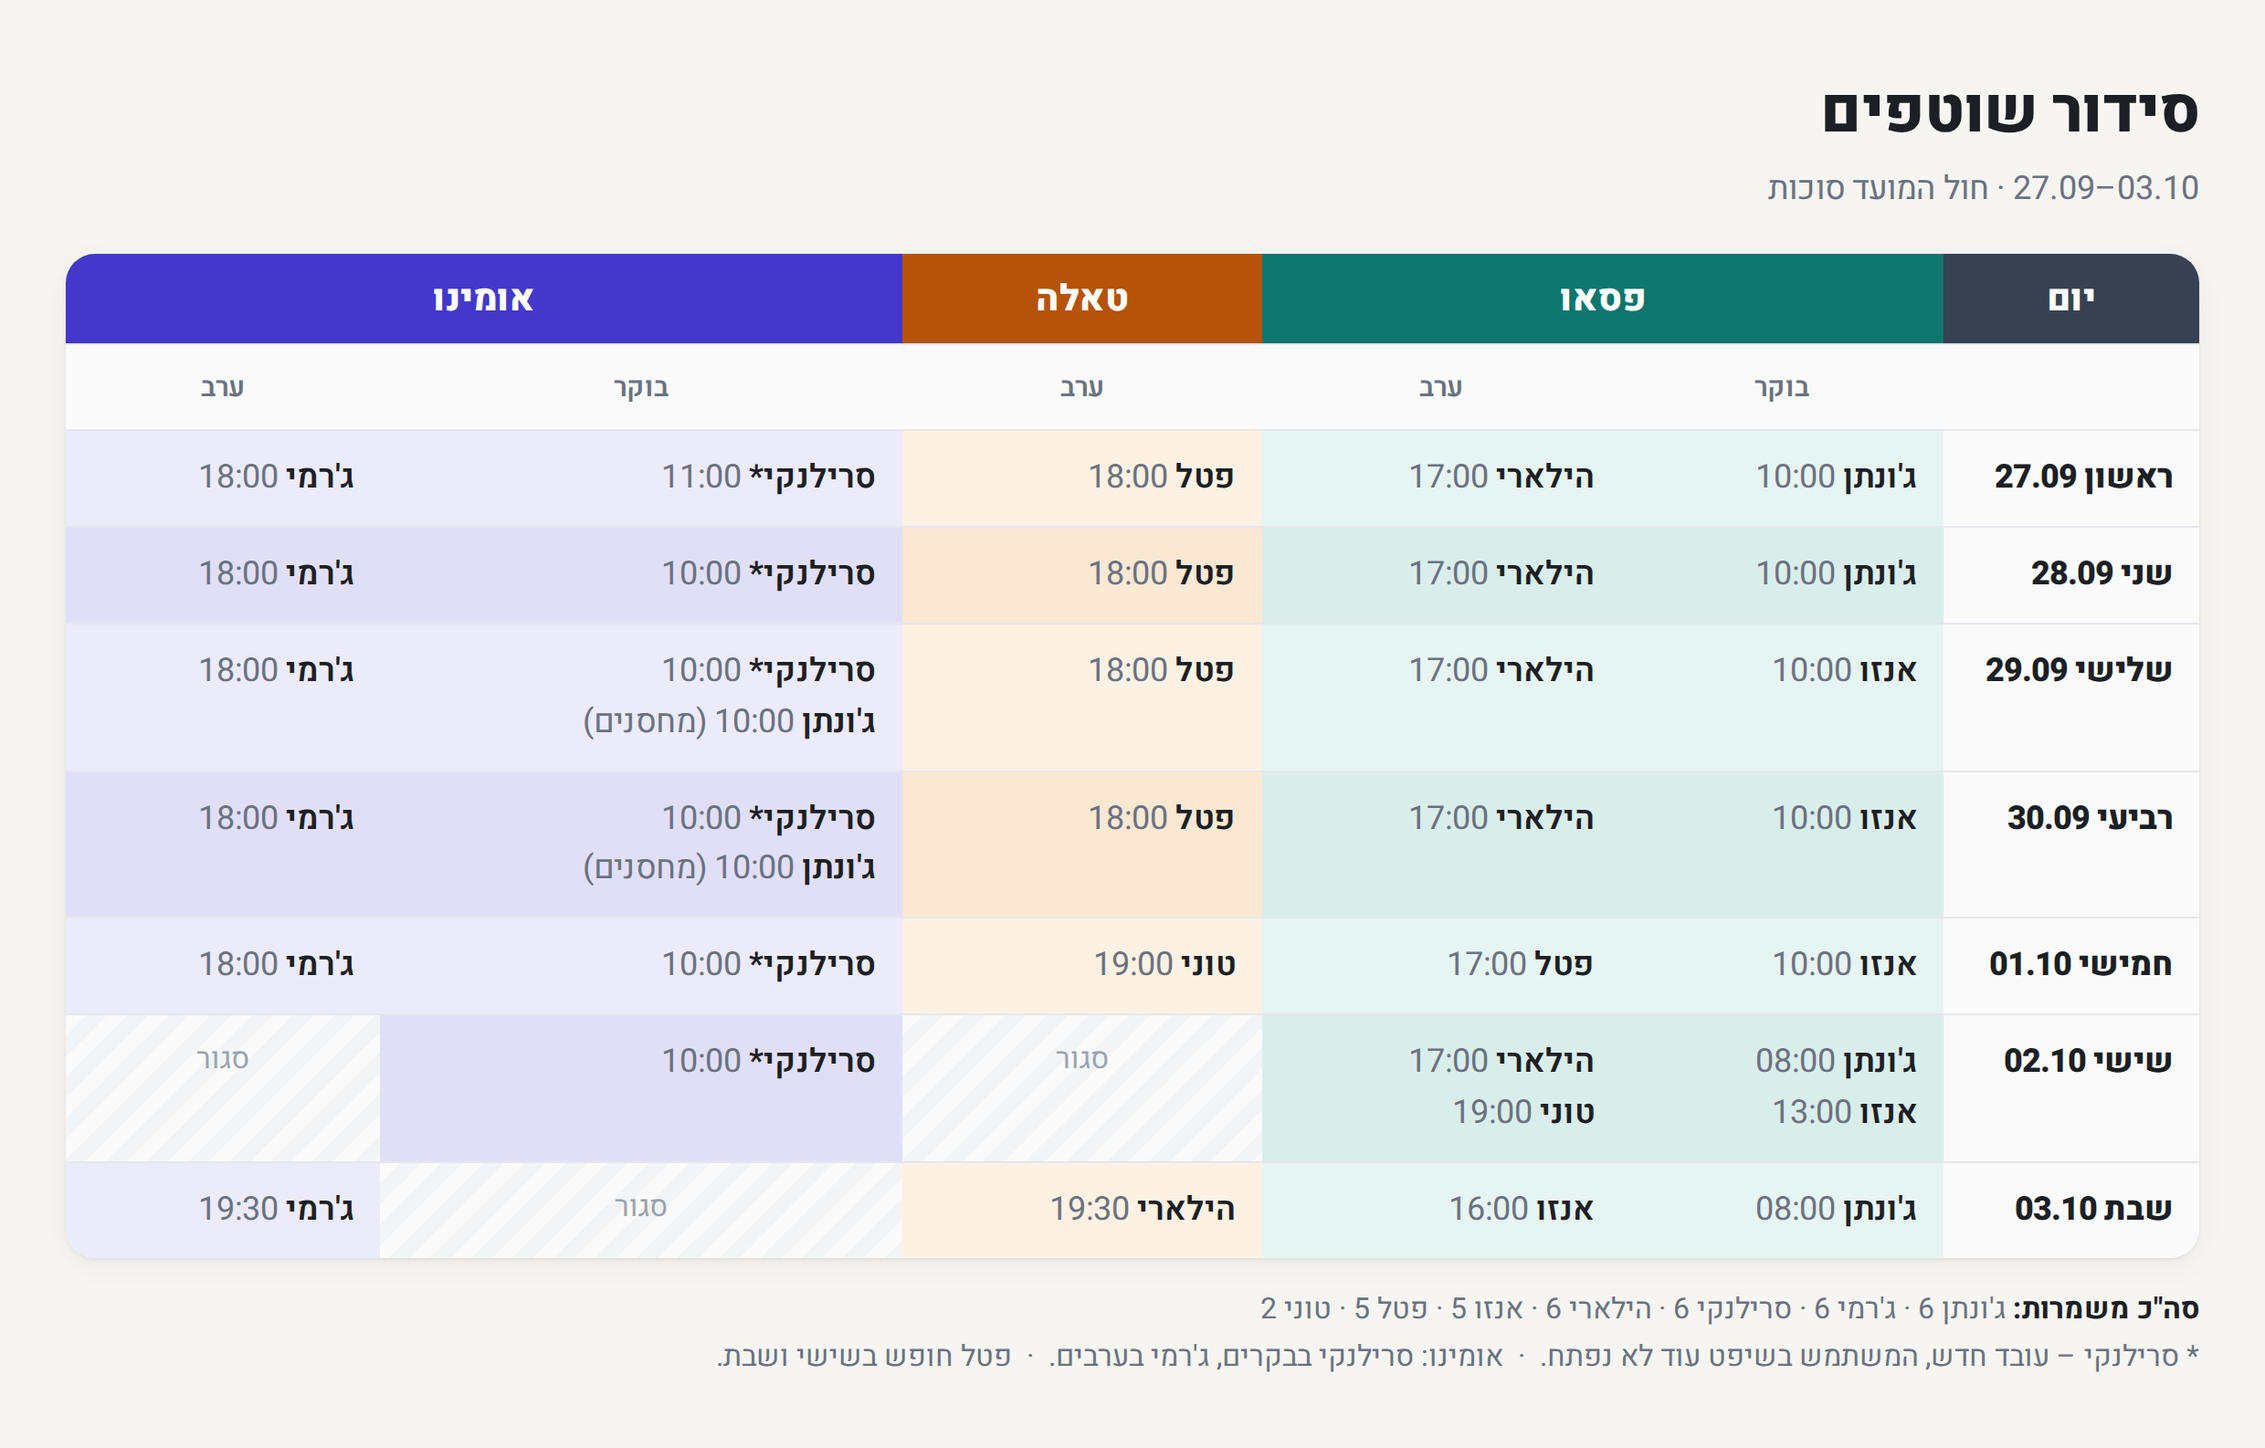
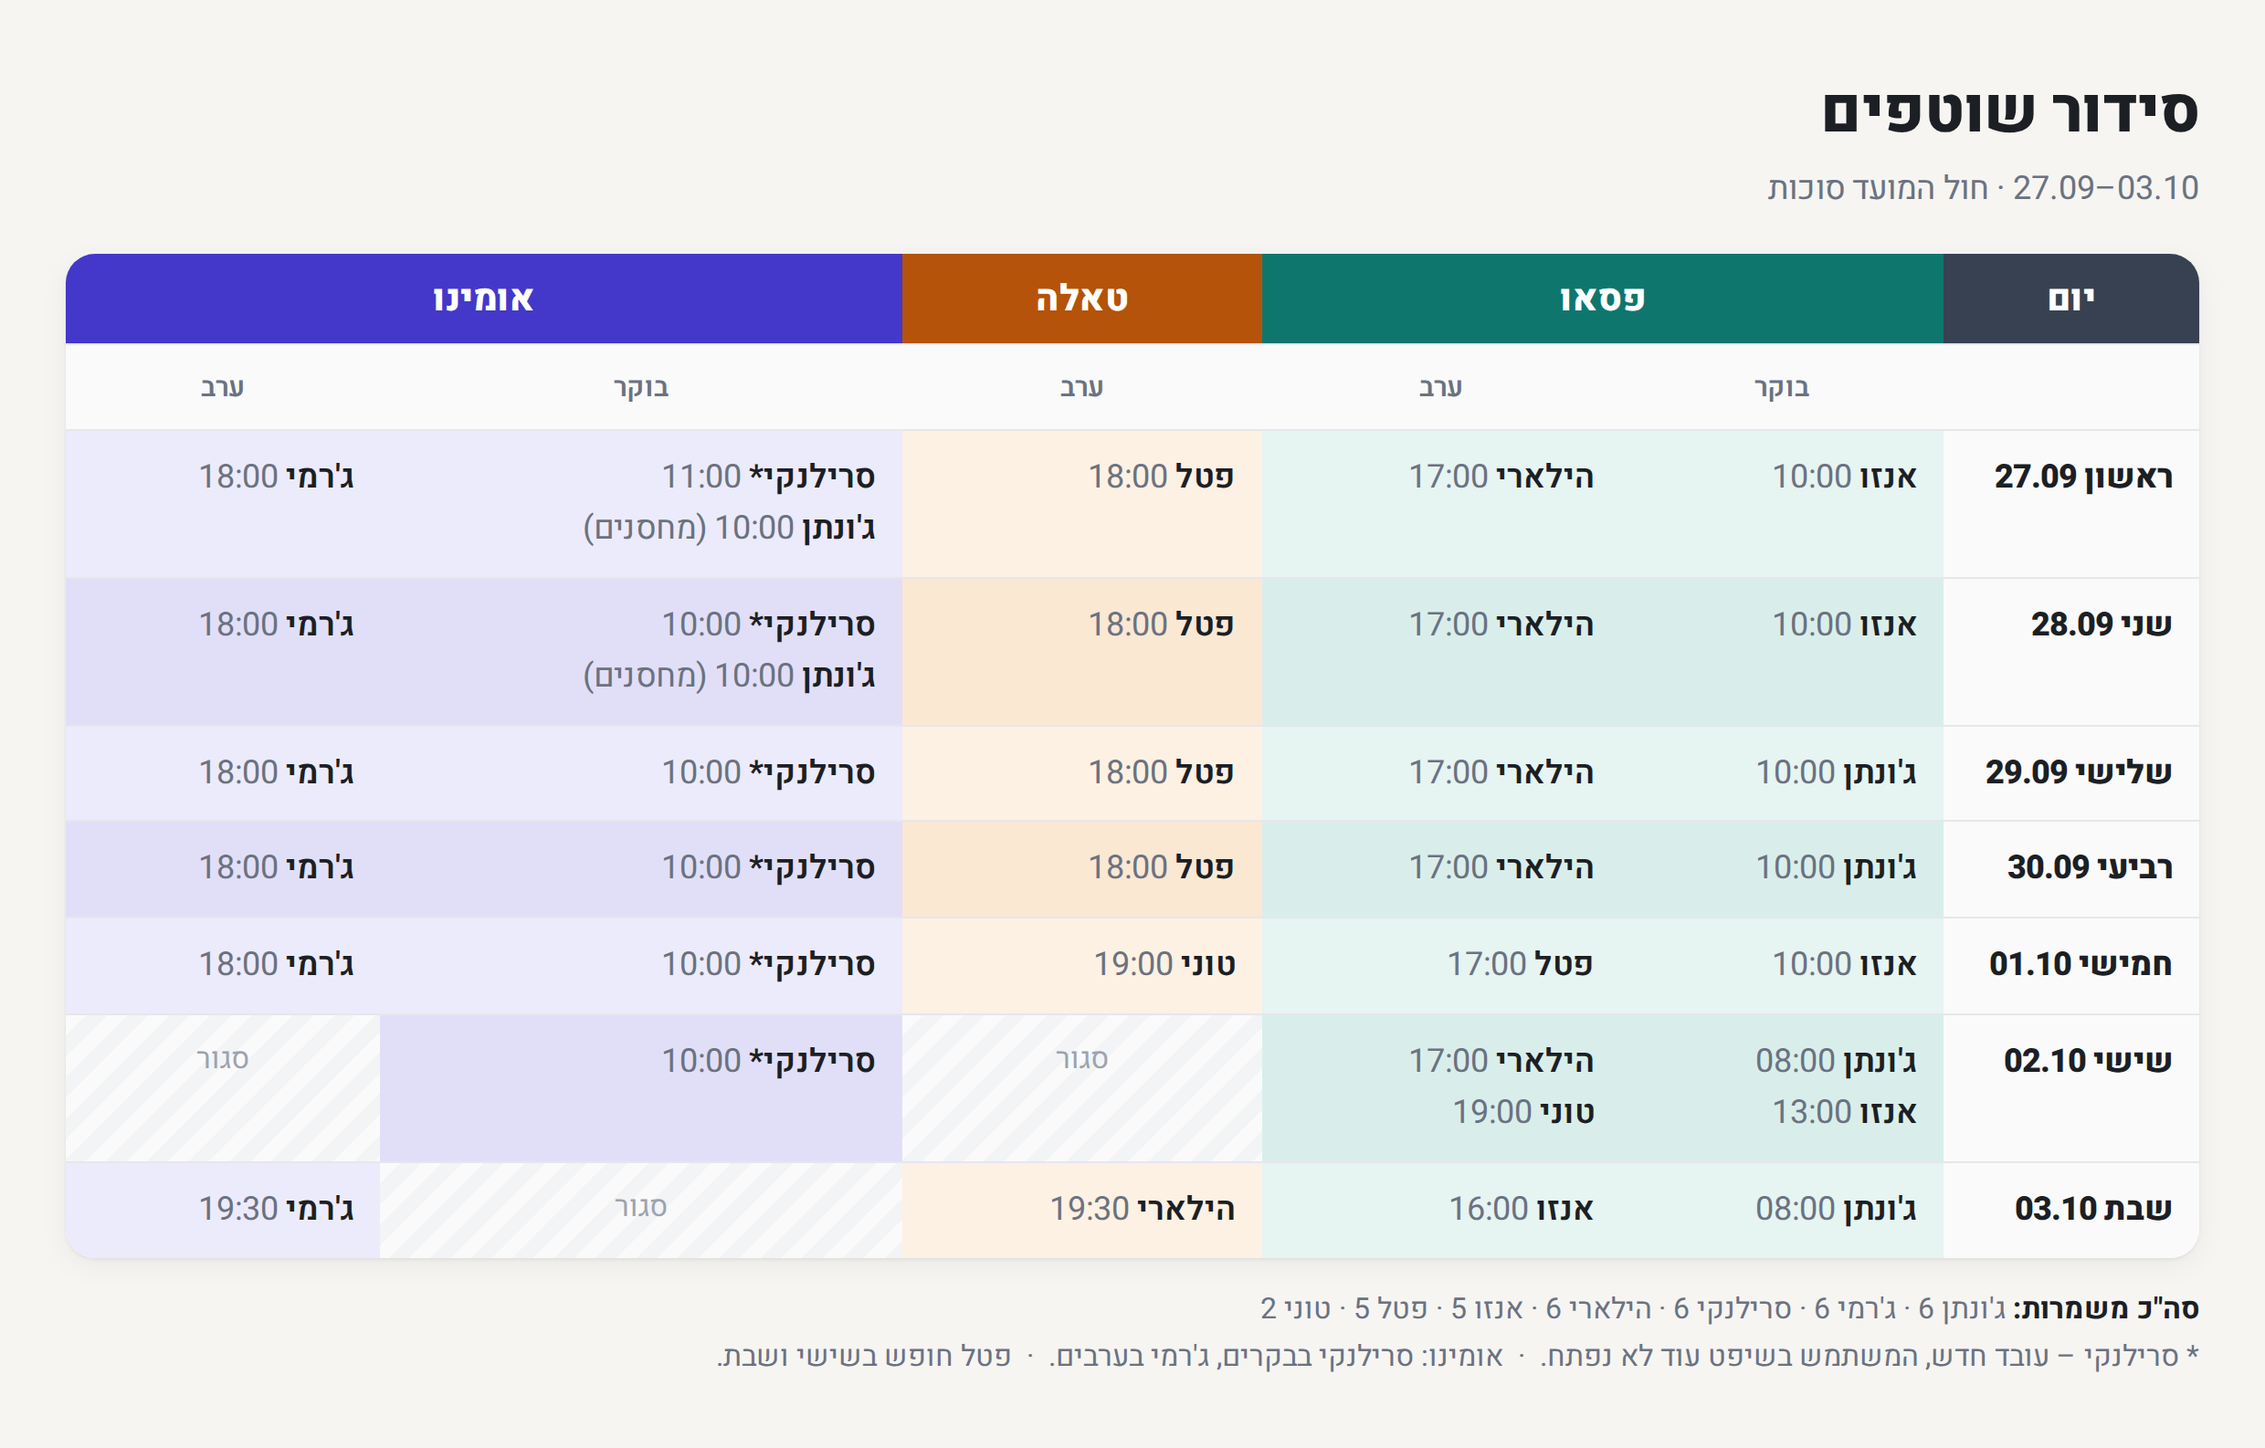
shift: ג'ונתן מחסנים באומינו א'+ב', פסאו ג'+ד'; אנזו פסאו א'+ב'
Claude-Session: https://claude.ai/code/session_01PaCDQzCdGZVMUVUojbSF3f

diff --git a/docs/shift/week-2026-09-27-dish-swap-jon-enzo.ts b/docs/shift/week-2026-09-27-dish-swap-jon-enzo.ts
@@ -1,0 +1,171 @@
+import "jsr:@supabase/functions-js/edge-runtime.d.ts";
+import { createClient } from "jsr:@supabase/supabase-js@2";
+
+// שוטפים 27/09–03/10 — התוכנית של גיל (26/09): אומינו = סרילנקי בבקרים + ג'רמי בערבים.
+//   פטל יוצא מאומינו: טאלה א'–ד' 18:00, פסאו ה' 17:00, חופש ו'+ש' (ביקש).
+//   ג'ונתן בג'+ד' בבוקר באומינו לסידור מחסנים (בקשת גיל). מוצ"ש: הילארי בטאלה.
+//   לסרילנקי אין עדיין משתמש → תא ריק עם הערה עד שיגיע טלפון.
+//   ירין 26/09: ג'ונתן ↔ אנזו — ג'ונתן מחסנים באומינו א'+ב' ופסאו ג'+ד'; אנזו פסאו א'+ב'.
+//   ⚠ אנזו סגר פסאו במוצ"ש 26/09 (16:00) ופותח א' 10:00 — אין חלופה, מסומן לירין.
+// Reconcile מול ROWS. לא מפרסם.
+const sb = createClient(Deno.env.get("SUPABASE_URL")!, Deno.env.get("SUPABASE_SERVICE_ROLE_KEY")!);
+const BASE = "https://app.shiftorganizer.com";
+const UA = "Mozilla/5.0 (Macintosh; Intel Mac OS X 10_15_7) AppleWebKit/537.36 (KHTML, like Gecko) Chrome/126 Safari/537.36";
+
+const WEEK = "2026-09-27";
+const P_APP = 4283, P_ROTA = 884123, DISH = 34937, B = 16656, E = 21796;
+const W = { JONATHAN: 765292, ENZO: 765295, HILLARY: 732289, PATEL: 808241, TONY: 811255, JEREMY: 829782 };
+const P = "Paseo", U = "Umino", T = "Tala", T_GAP = "Tala – חסר שוטף";
+
+type Row = [number, number, number | null, string, string];
+const ROWS: Row[] = [
+  [0, B, W.ENZO, "10:00", P], [0, B, null, "11:00", SL], [0, B, W.JONATHAN, "10:00", STORE],
+  [0, E, W.HILLARY, "17:00", P], [0, E, W.PATEL, "18:00", T], [0, E, W.JEREMY, "18:00", U],
+
+  [1, B, W.ENZO, "10:00", P], [1, B, null, "10:00", SL], [1, B, W.JONATHAN, "10:00", STORE],
+  [1, E, W.HILLARY, "17:00", P], [1, E, W.PATEL, "18:00", T], [1, E, W.JEREMY, "18:00", U],
+
+  [2, B, W.JONATHAN, "10:00", P], [2, B, null, "10:00", SL],
+  [2, E, W.HILLARY, "17:00", P], [2, E, W.PATEL, "18:00", T], [2, E, W.JEREMY, "18:00", U],
+
+  [3, B, W.JONATHAN, "10:00", P], [3, B, null, "10:00", SL],
+  [3, E, W.HILLARY, "17:00", P], [3, E, W.PATEL, "18:00", T], [3, E, W.JEREMY, "18:00", U],
+
+  [4, B, W.ENZO, "10:00", P], [4, B, null, "10:00", SL],
+  [4, E, W.PATEL, "17:00", P], [4, E, W.TONY, "19:00", T], [4, E, W.JEREMY, "18:00", U],
+
+  [5, B, W.JONATHAN, "08:00", P], [5, B, null, "10:00", SL], [5, B, W.ENZO, "13:00", P],
+  [5, E, W.HILLARY, "17:00", P], [5, E, W.TONY, "19:00", P],
+
+  [6, B, W.JONATHAN, "08:00", P],
+  [6, E, W.ENZO, "16:00", P], [6, E, W.HILLARY, "19:30", T], [6, E, W.JEREMY, "19:30", U],
+];
+
+async function cfg(k: string): Promise<string> {
+  const { data } = await sb.from("app_config").select("value").eq("key", k).maybeSingle();
+  return data?.value ?? "";
+}
+function eat(res: Response, jar: Record<string, string>) {
+  const raw = (res.headers as any).getSetCookie?.() ?? [];
+  const list: string[] = raw.length ? raw : (res.headers.get("set-cookie") ? [res.headers.get("set-cookie")!] : []);
+  for (const c of list) { const [p] = c.split(";"); const i = p.indexOf("="); if (i > 0) jar[p.slice(0, i).trim()] = p.slice(i + 1).trim(); }
+}
+const jarStr = (j: Record<string, string>) => Object.entries(j).map(([k, v]) => `${k}=${v}`).join("; ");
+function hdrs(jar: Record<string, string>, post = false) {
+  const h: Record<string, string> = { "User-Agent": UA, "Accept": "application/json", "Cookie": jarStr(jar), "Referer": `${BASE}/app/home/` };
+  if (post) { h["Content-Type"] = "application/json"; h["Origin"] = BASE; }
+  if (jar["csrftoken"]) h["X-CSRFToken"] = jar["csrftoken"];
+  return h;
+}
+async function login(jar: Record<string, string>) {
+  const g = await fetch(`${BASE}/app/login/`, { headers: { "User-Agent": UA }, redirect: "manual" }); eat(g, jar);
+  const r = await fetch(`${BASE}/api/auth/login/`, { method: "POST", headers: { ...hdrs(jar, true), "Referer": `${BASE}/app/login/` },
+    body: JSON.stringify({ username: await cfg("SHIFT_USERNAME"), company: await cfg("SHIFT_COMPANY"), password: await cfg("SHIFT_PASSWORD") }), redirect: "manual" });
+  eat(r, jar); return r.ok;
+}
+async function switchApp(jar: Record<string, string>, app: number) {
+  const sw = await fetch(`${BASE}/api/auth/switch-application/`, { method: "POST", headers: hdrs(jar, true), body: JSON.stringify({ application: app }), redirect: "manual" });
+  eat(sw, jar); return sw.ok;
+}
+const rowsOf = (j: any) => Array.isArray(j) ? j : (Array.isArray(j?.results) ? j.results : []);
+function dateOf(day: number) {
+  const d = new Date(WEEK + "T00:00:00Z"); d.setUTCDate(d.getUTCDate() + day);
+  return d.toISOString().slice(0, 10);
+}
+// PATCH עם נעילה אופטימית — ה-API דורש version תואם, אחרת 409.
+async function patchCell(jar: Record<string, string>, app: number, cur: any, fields: Record<string, unknown>) {
+  let ver = Number(cur.version ?? 0), last = "";
+  for (let attempt = 0; attempt < 3; attempt++) {
+    const r = await fetch(`${BASE}/api/cells/${cur.id}/?application=${app}`, { method: "PATCH", headers: hdrs(jar, true),
+      body: JSON.stringify({ ...cur, version: ver, ...fields }) });
+    const t = await r.text();
+    if (r.ok) return { ok: true, how: `attempt${attempt}` };
+    last = `${r.status} ${t.replace(/<[^>]*>/g, " ").replace(/\s+/g, " ").slice(0, 120)}`;
+    if (r.status === 409) { try { const j = JSON.parse(t); if (typeof j?.version === "number") ver = j.version + 1; } catch { ver++; } }
+    else break;
+  }
+  return { ok: false, last };
+}
+
+const hhmm = (s: any) => String(s || "").slice(0, 5);
+const who = (c: any) => c.employee ? ((c.first_name || "") + (c.last_name ? " " + c.last_name : "")).trim() || String(c.employee) : (c.notes || "ריק");
+const same = (c: any, r: Row) => c.day === r[0] && c.shift === r[1] && Number(c.employee ?? 0) === Number(r[2] ?? 0) && hhmm(c.planned_start) === r[3] && String(c.notes || "") === r[4];
+
+Deno.serve(async (req) => {
+  try {
+    const u = new URL(req.url);
+    const secret = await cfg("ALFRED_SYNC_SECRET");
+    if (!secret || (req.headers.get("x-sync-secret") ?? u.searchParams.get("secret")) !== secret) return new Response("unauthorized", { status: 401 });
+    const go = u.searchParams.get("confirm") === "1";
+
+    const jar: Record<string, string> = {};
+    if (!(await login(jar))) return new Response(JSON.stringify({ error: "login failed" }), { status: 502 });
+    if (!(await switchApp(jar, P_APP))) return new Response(JSON.stringify({ error: "switch 4283 failed" }), { status: 502 });
+    const pRota = rowsOf(await (await fetch(`${BASE}/api/rotas/`, { headers: hdrs(jar) })).json()).find((r: any) => r.id === P_ROTA);
+    if (!pRota || pRota.is_deleted) return new Response(JSON.stringify({ error: "rota 884123 not found" }), { status: 404 });
+    const live = rowsOf(await (await fetch(`${BASE}/api/cells/`, { headers: hdrs(jar) })).json())
+      .filter((c: any) => c.rota === P_ROTA && !c.is_deleted);
+    const dish = live.filter((c: any) => c.role === DISH);
+
+    // 1. התאמות מדויקות
+    const freeLive = new Set(dish.map((c: any) => c.id));
+    const todo: Row[] = [];
+    for (const r of ROWS) {
+      const hit = dish.find((c: any) => freeLive.has(c.id) && same(c, r));
+      if (hit) freeLive.delete(hit.id); else todo.push(r);
+    }
+    // 2. PATCH לתא פנוי באותו יום+משמרת, אחרת יצירה; תאים שנשארו — מחיקה
+    const byStart = (a: any, b: any) => String(a.planned_start).localeCompare(String(b.planned_start));
+    const plan: any[] = [];
+    for (const r of todo) {
+      const cand = dish.filter((c: any) => freeLive.has(c.id) && c.day === r[0] && c.shift === r[1]).sort(byStart)[0];
+      if (cand) { freeLive.delete(cand.id); plan.push({ op: "patch", cell: cand, row: r }); }
+      else plan.push({ op: "create", row: r });
+    }
+    for (const id of freeLive) plan.push({ op: "delete", cell: dish.find((c: any) => c.id === id) });
+
+    const desc = (p: any) => p.op === "delete" ? `מחיקה ${String(p.cell.date).slice(0, 10)} ${hhmm(p.cell.planned_start)} ${who(p.cell)}`
+      : p.op === "patch" ? `${String(p.cell.date).slice(0, 10)} ${hhmm(p.cell.planned_start)} ${who(p.cell)}${p.cell.notes ? " (" + p.cell.notes + ")" : ""} → ${p.row[3]} ${p.row[2]}${p.row[4] ? " (" + p.row[4] + ")" : ""}`
+      : `חדש d${p.row[0]} ${p.row[3]} ${p.row[2]}`;
+    if (!go) return new Response(JSON.stringify({ dry: true, is_published: pRota.is_published, existing_dish: dish.length, target: ROWS.length, changes: plan.map(desc) }, null, 2),
+      { headers: { "Content-Type": "application/json" } });
+
+    const used = new Map<number, Set<number>>();
+    for (const c of live) { if (!used.has(c.day)) used.set(c.day, new Set()); used.get(c.day)!.add(Number(c.order || 0)); }
+    const nextOrder = (day: number) => { if (!used.has(day)) used.set(day, new Set()); const s = used.get(day)!; let o = 1; while (s.has(o)) o++; s.add(o); return o; };
+    const done: string[] = [], failed: any[] = [];
+    for (const p of plan) {
+      if (p.op === "patch") {
+        const [day, , emp, start, notes] = p.row; const date = String(p.cell.date).slice(0, 10);
+        const res = await patchCell(jar, P_APP, p.cell, { employee: emp, notes, planned_start: `${start}:00`, planned_start_full: `${date}T${start}:00` });
+        res.ok ? done.push(desc(p)) : failed.push({ c: desc(p), last: res.last });
+      } else if (p.op === "create") {
+        const [day, shift, emp, start, notes] = p.row; const date = dateOf(day);
+        const payload = { rota: P_ROTA, sub_rota: null, shift, day, date, role: DISH, employee: emp, order: nextOrder(day),
+          planned_start: `${start}:00`, planned_end: null, planned_start_full: `${date}T${start}:00`, planned_end_full: null,
+          manual_start: null, manual_end: null, work_code: 0, break_duration: 0, waiting: 0, absence: "", notes, highlight: "" };
+        const r = await fetch(`${BASE}/api/cells/?application=${P_APP}`, { method: "POST", headers: hdrs(jar, true), body: JSON.stringify(payload) });
+        const t = await r.text(); r.ok ? done.push(desc(p)) : failed.push({ c: desc(p), status: r.status, body: t.slice(0, 140) });
+      } else {
+        const r = await fetch(`${BASE}/api/cells/${p.cell.id}/?application=${P_APP}`, { method: "DELETE", headers: hdrs(jar, true) });
+        await r.text();
+        if (r.ok) done.push(desc(p));
+        else { const res = await patchCell(jar, P_APP, p.cell, { is_deleted: true }); res.ok ? done.push(desc(p) + " (is_deleted)") : failed.push({ c: desc(p), last: res.last }); }
+      }
+    }
+
+    const after = rowsOf(await (await fetch(`${BASE}/api/cells/`, { headers: hdrs(jar) })).json())
+      .filter((c: any) => c.rota === P_ROTA && !c.is_deleted && c.role === DISH);
+    const missing = ROWS.filter((r) => !after.some((c: any) => same(c, r))).length;
+    const by: Record<string, string[]> = {}, per: Record<string, number> = {};
+    for (const c of after.sort((a: any, b: any) => (a.day - b.day) || byStart(a, b))) {
+      (by[String(c.date).slice(0, 10)] ||= []).push(`${hhmm(c.planned_start)} ${who(c)}${c.notes ? " · " + c.notes : ""}`);
+      per[who(c)] = (per[who(c)] || 0) + 1;
+    }
+    const rotaAfter = rowsOf(await (await fetch(`${BASE}/api/rotas/`, { headers: hdrs(jar) })).json()).find((r: any) => r.id === P_ROTA);
+    return new Response(JSON.stringify({ is_published: rotaAfter?.is_published ?? null, done: done.length, failed, dish_cells: after.length,
+      target: ROWS.length, missing, per_person: per, by_day: by }, null, 2), { headers: { "Content-Type": "application/json" } });
+  } catch (e) {
+    return new Response(JSON.stringify({ error: String(e) }), { status: 500 });
+  }
+});

diff --git a/docs/shift/README.md b/docs/shift/README.md
@@ -39,6 +39,7 @@
 | `create-employee-molu.ts` | 25/09 | נפתחה רשומת עובד **מולו `853229`** (user 1136329, שעון 719): טבח, מטבח פסאו, חברה 1800, ההגדרות הועתקו מאביעד. הטלפון מועבר כפרמטר ולא נשמר בקוד. 7 המשמרות שלו בשבוע 27/09 עברו מתא ריק עם הערה אליו. |
 | `week-2026-09-27-cooks-yaakov-tue-off.ts` | 27/09–03/10 | ירין: יעקב בחופש בג', כמו שסימן בזמינות. המשמרת בג' 16:00 נמחקה, ויעקב נשאר עם 4 משמרות. מולו רשום לפי המזהה 853229. 41 תאי טבח, טיוטה. |
 | `week-2026-09-27-dish-gil-plan.ts` | 27/09–03/10 | **התוכנית של גיל:** באומינו סרילנקי חדש בבקרים (עדיין בתא ריק עם הערה, עד שנפתח לו משתמש) וג'רמי בערבים. פטל עבר לטאלה בא'–ד' ולפסאו בה', וחופשי בו'+ש' לפי בקשתו. ג'ונתן בג'+ד' בבוקר באומינו לסידור מחסנים (`Umino – storage`). במוצ"ש הילארי בטאלה. אין כפולות ואין סגירה→פתיחה. 36 תאים, טיוטה. גרפיקה: `img/dish-2026-09-27.png`, `img/cooks-2026-09-27.png`. |
+| `week-2026-09-27-dish-swap-jon-enzo.ts` | 27/09–03/10 | ירין: ג'ונתן במחסנים באומינו בא'+ב' בבוקר ובבוקר בפסאו בג'+ד'. אנזו בבוקר בפסאו בא'+ב'. ⚠ אנזו סגר את פסאו במוצ"ש 26/09 ופותח בא' 10:00 — אין חלופה. 36 תאים, טיוטה. |
 
 ## עריכות ידניות של ירין בגריד
 
